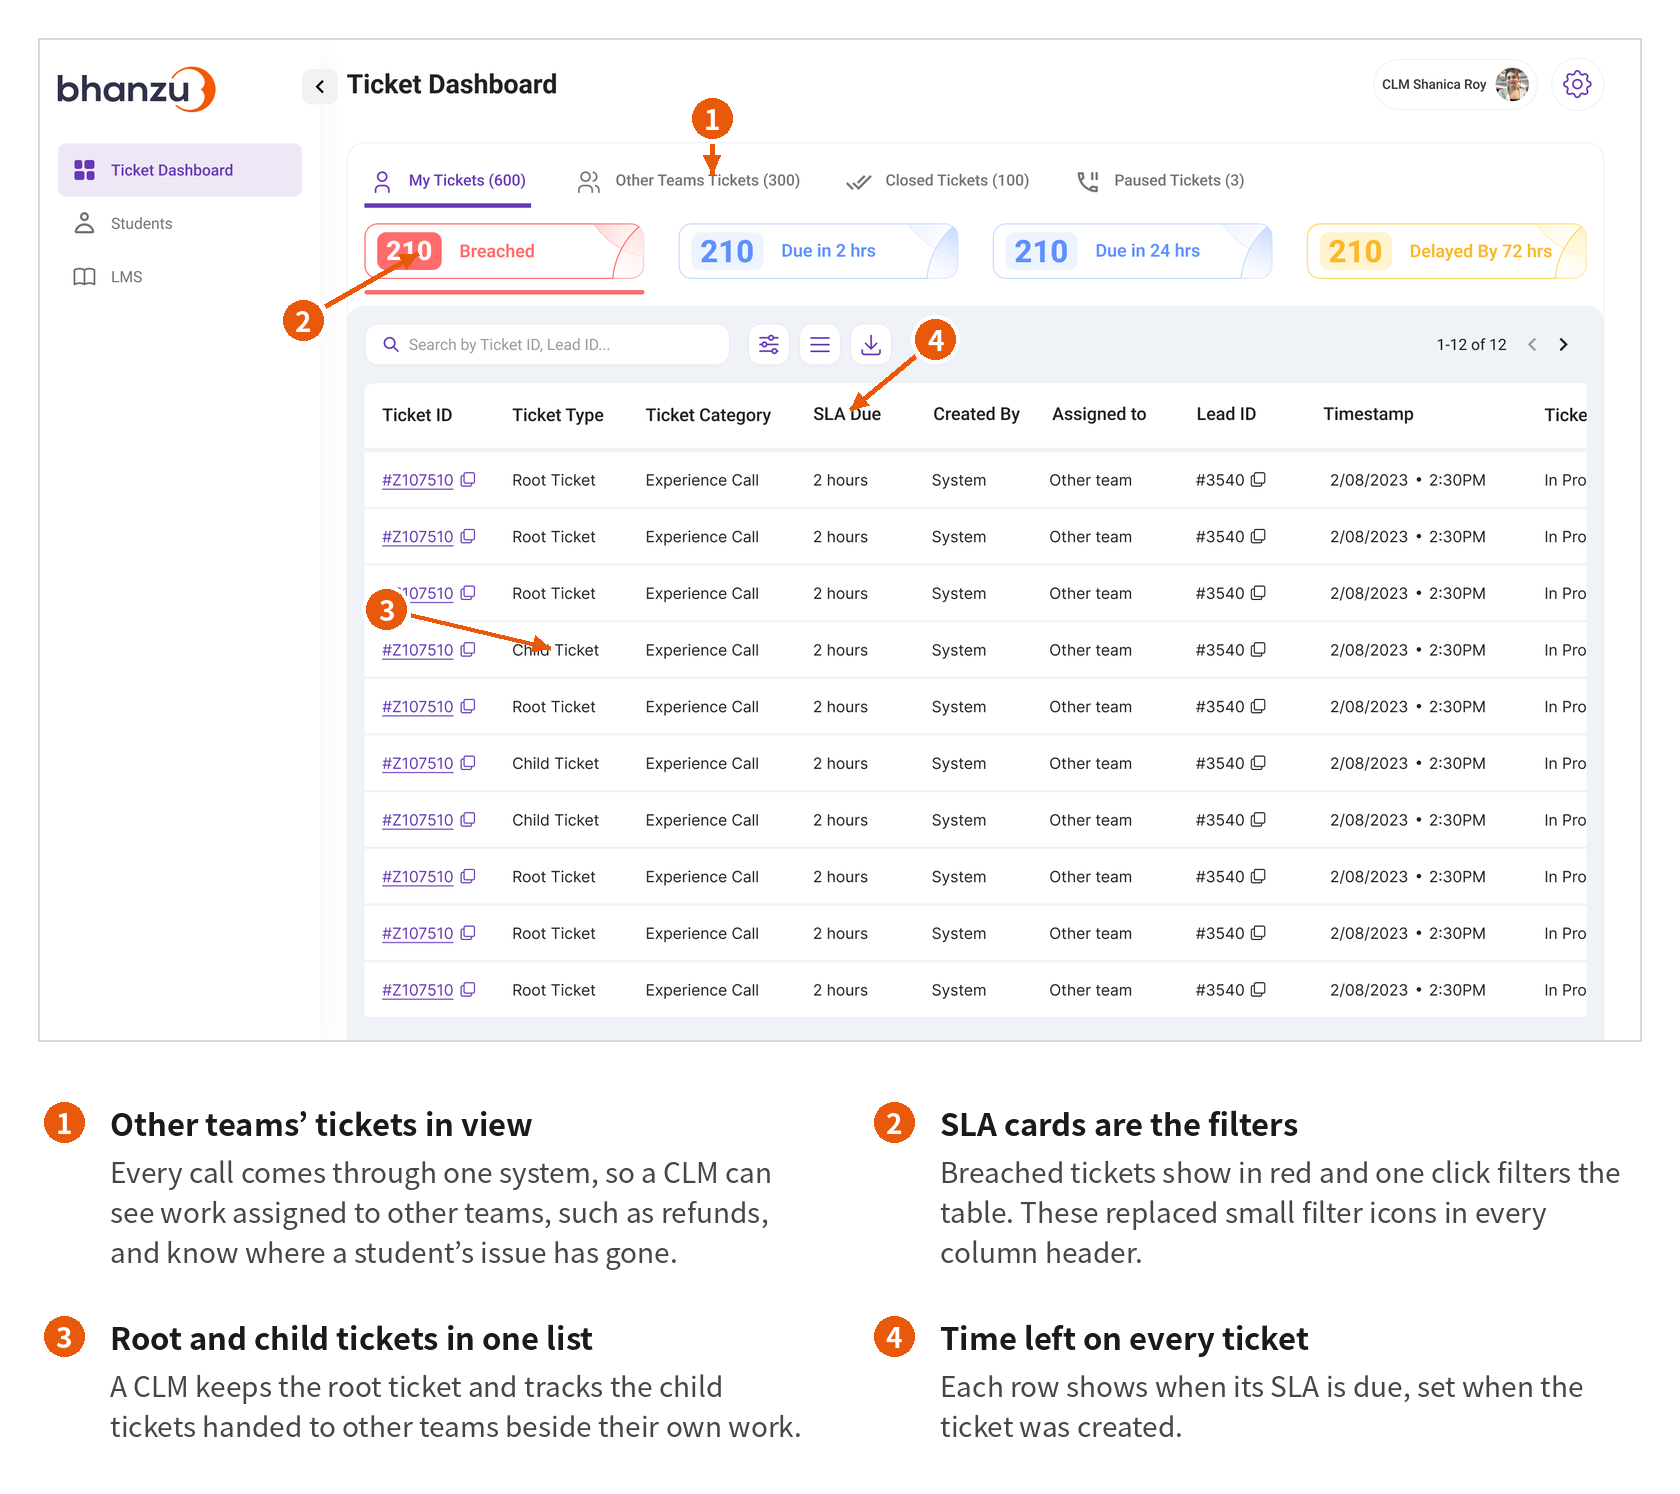
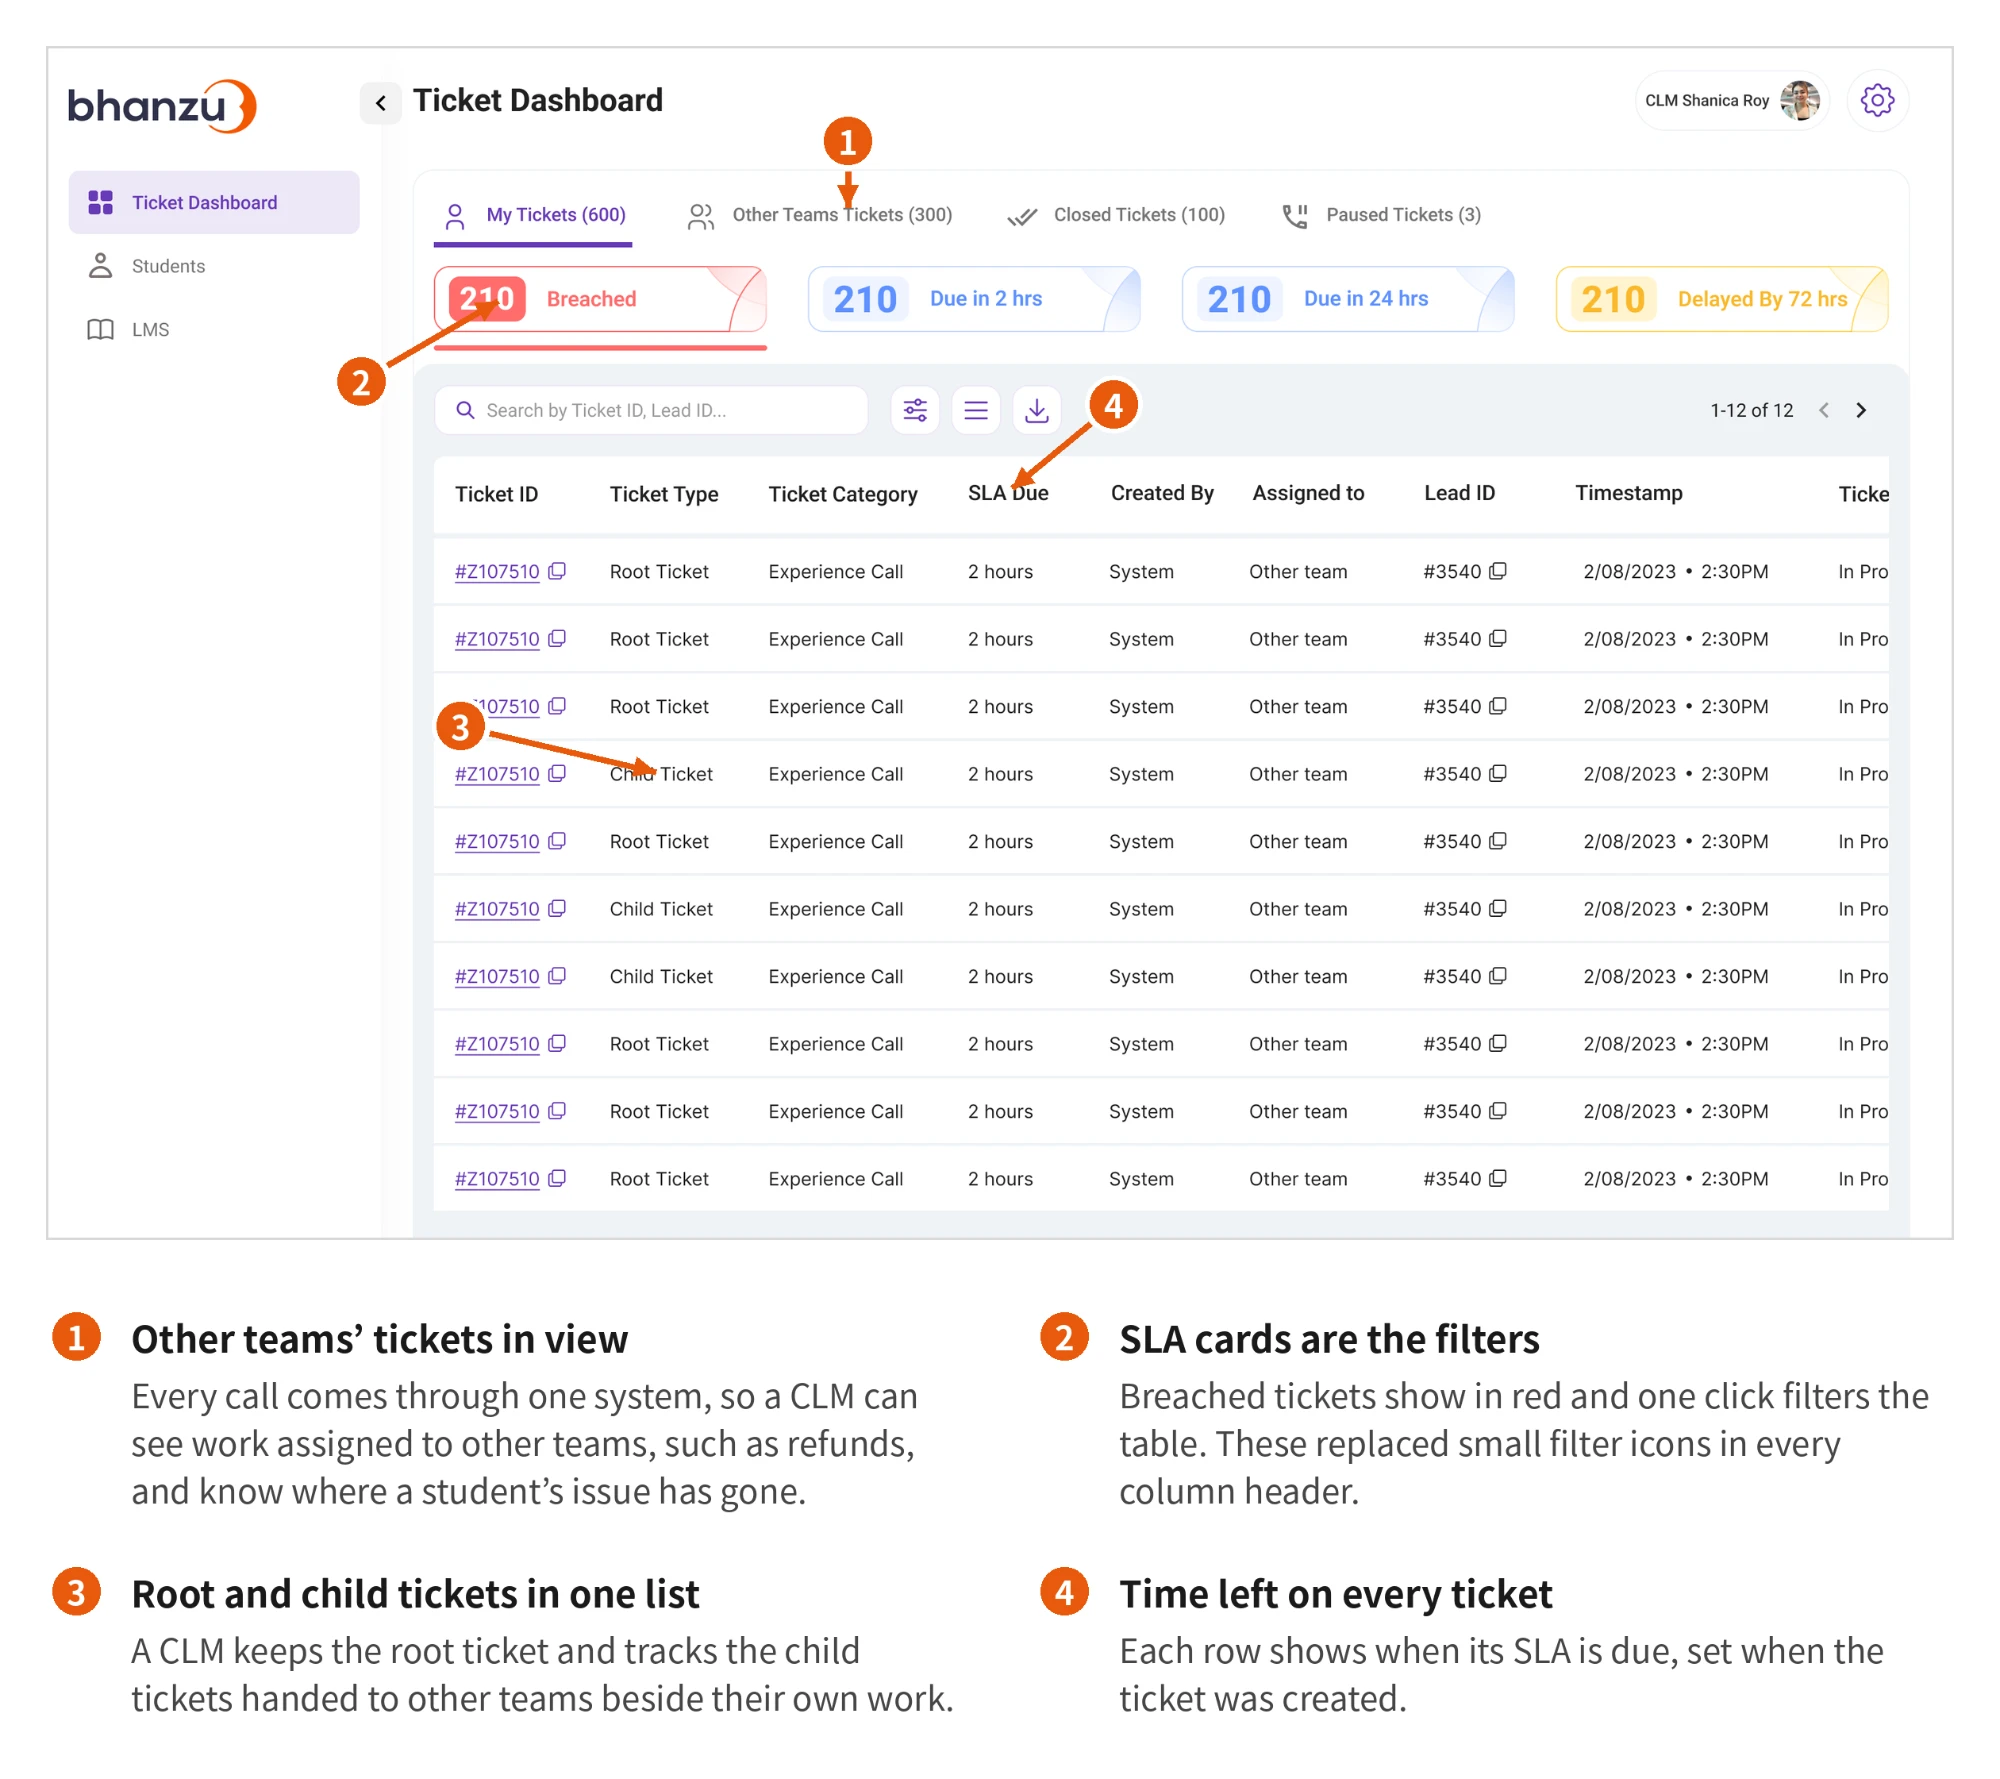
CLM: add screen 10 half-width-with-text block; refresh screens 01-04
- New figtext block: image in the left half of the body column with the
  paragraph beside it (top-aligned), stacking under the image on mobile.
- Wire screen 10 (batch-allocated modal) into Batches and sessions; its
  asset has not been received yet, so it renders as a pending slot.
- Regenerate screens 01-04 display WebP (1520px) and full-res originals
  from the updated higher-resolution exports.

Claude-Session: https://claude.ai/code/session_01WYKgvXK1wQFL6PcCW6JFSc

diff --git a/components/case/ClmCaseStudy.tsx b/components/case/ClmCaseStudy.tsx
@@ -35,6 +35,7 @@ type Block =
   | ({ t: "table" } & TableData)
   | ({ t: "figure" } & Figure)
   | { t: "figpair"; items: [Figure, Figure] }
+  | { t: "figtext"; fig: Figure; text: string }
   | { t: "ph"; n: number; name: string; desc: string };
 type Section = { id: string; label: string; heading: string; blocks: Block[] };
 
@@ -526,6 +527,17 @@ const SECTIONS: Section[] = [
         caption: "Allocating a batch from the ticket, annotated",
       },
       {
+        t: "figtext",
+        fig: {
+          // Asset 10-batch-allocated-modal.png not yet received; renders as a
+          // pending slot until it arrives, then gets src (display webp) + full.
+          alt: "Batch Allocated Successfully confirmation telling the CLM how many catch-up sessions to schedule",
+          caption: "Allocation leads straight into catch-up sessions",
+          pendingName: "clm-screens/10-batch-allocated-modal.png",
+        },
+        text: "Allocation does not end at the batch. When a student joins a batch that is already running, the confirmation tells the CLM how many catch-up sessions the student needs and leads straight into scheduling them.",
+      },
+      {
         t: "figpair",
         items: [
           { src: "/clm-screens/08-batch-details.webp", full: "/clm-screens/08-batch-details-full.png", alt: "Batch details with a Reallocate Batch action and current and previous batches", caption: "Batch details and reallocation" },
@@ -775,6 +787,15 @@ export default function ClmCaseStudy() {
             {renderFigure(b.items[1], 1)}
           </div>
         );
+      case "figtext":
+        return (
+          <div key={key} className="cs-halftext">
+            {renderFigure(b.fig, "fig")}
+            <div className="cs-halftext-body">
+              <p>{renderInline(b.text)}</p>
+            </div>
+          </div>
+        );
       default:
         return null;
     }
@@ -919,11 +940,13 @@ const clmExtrasCss = `
    placeholders stretch to equal height */
 .cs-pair .cs-fig{ align-self:start; }
 
-/* ---- half-width media with the text beside it; stack on mobile ---- */
-.cs-halftext{ margin:28px 0 0; max-width:var(--col); display:grid; grid-template-columns:1fr 1fr; gap:24px; align-items:center; }
+/* ---- half-width media with the text beside it, tops aligned; stack on mobile ---- */
+.cs-halftext{ margin:28px 0 0; max-width:var(--col); display:grid; grid-template-columns:1fr 1fr; gap:24px; align-items:start; }
 .cs-halftext .cs-ph, .cs-halftext .cs-fig{ margin:0; max-width:none; }
 .cs-halftext .cs-ph{ min-height:180px; }
 .cs-halftext-body{ font-family:var(--body); font-size:16px; line-height:1.33; color:#464646; }
+.cs-halftext-body p{ margin:0; }
+.cs-halftext-body p + p{ margin-top:11px; }
 
 /* ---- inline note highlight (kept for any bracketed note) ---- */
 .cs-todo-in{ background:#ffe99a; color:#6b5600; border-radius:3px; padding:0 4px; box-decoration-break:clone; -webkit-box-decoration-break:clone; }
